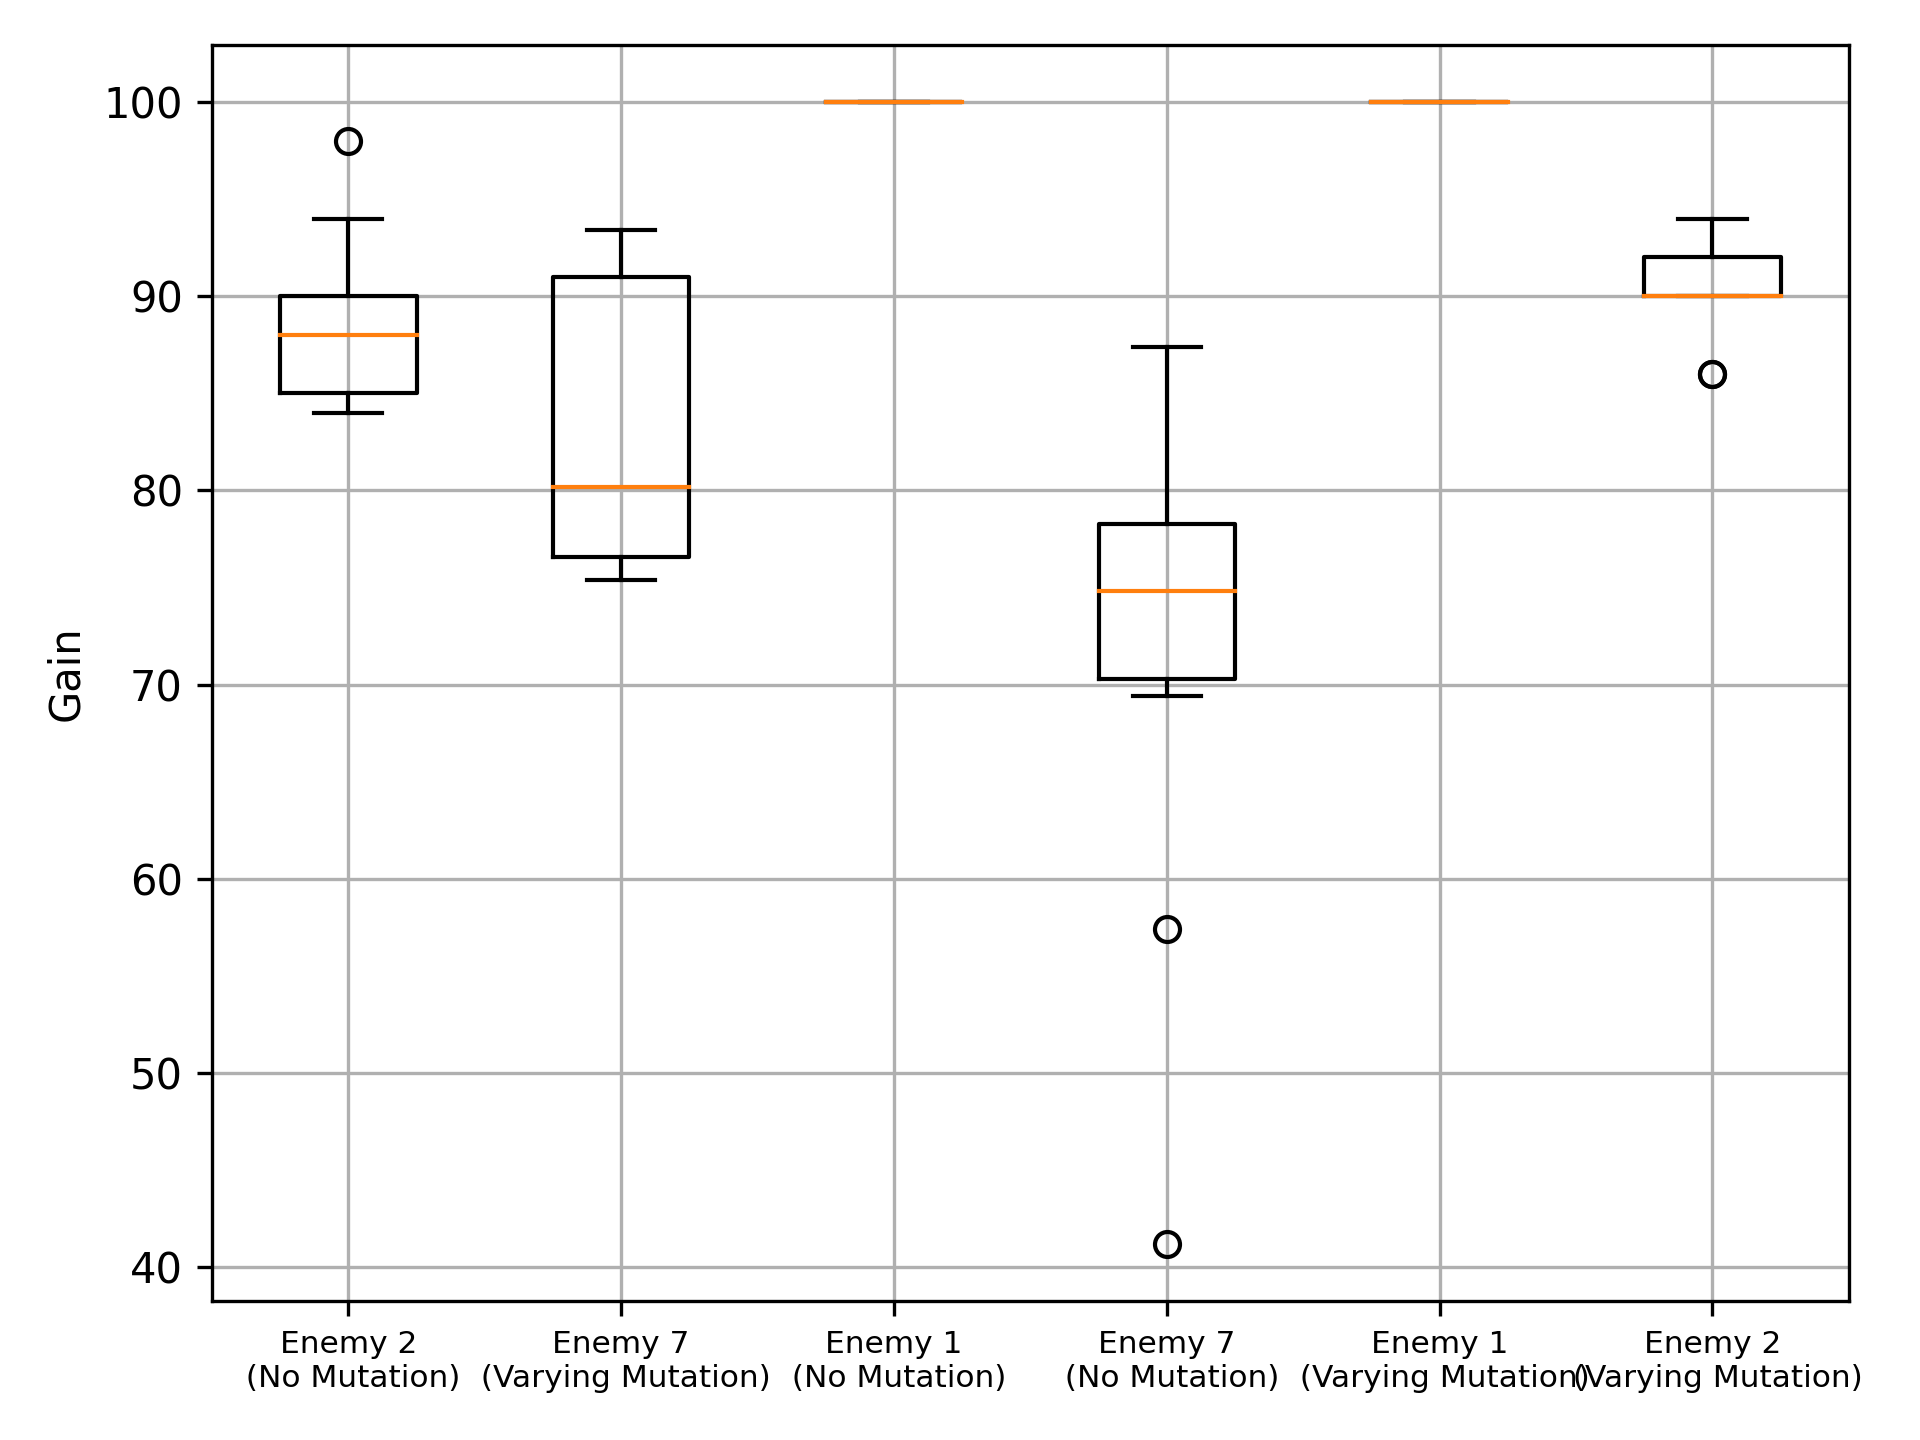
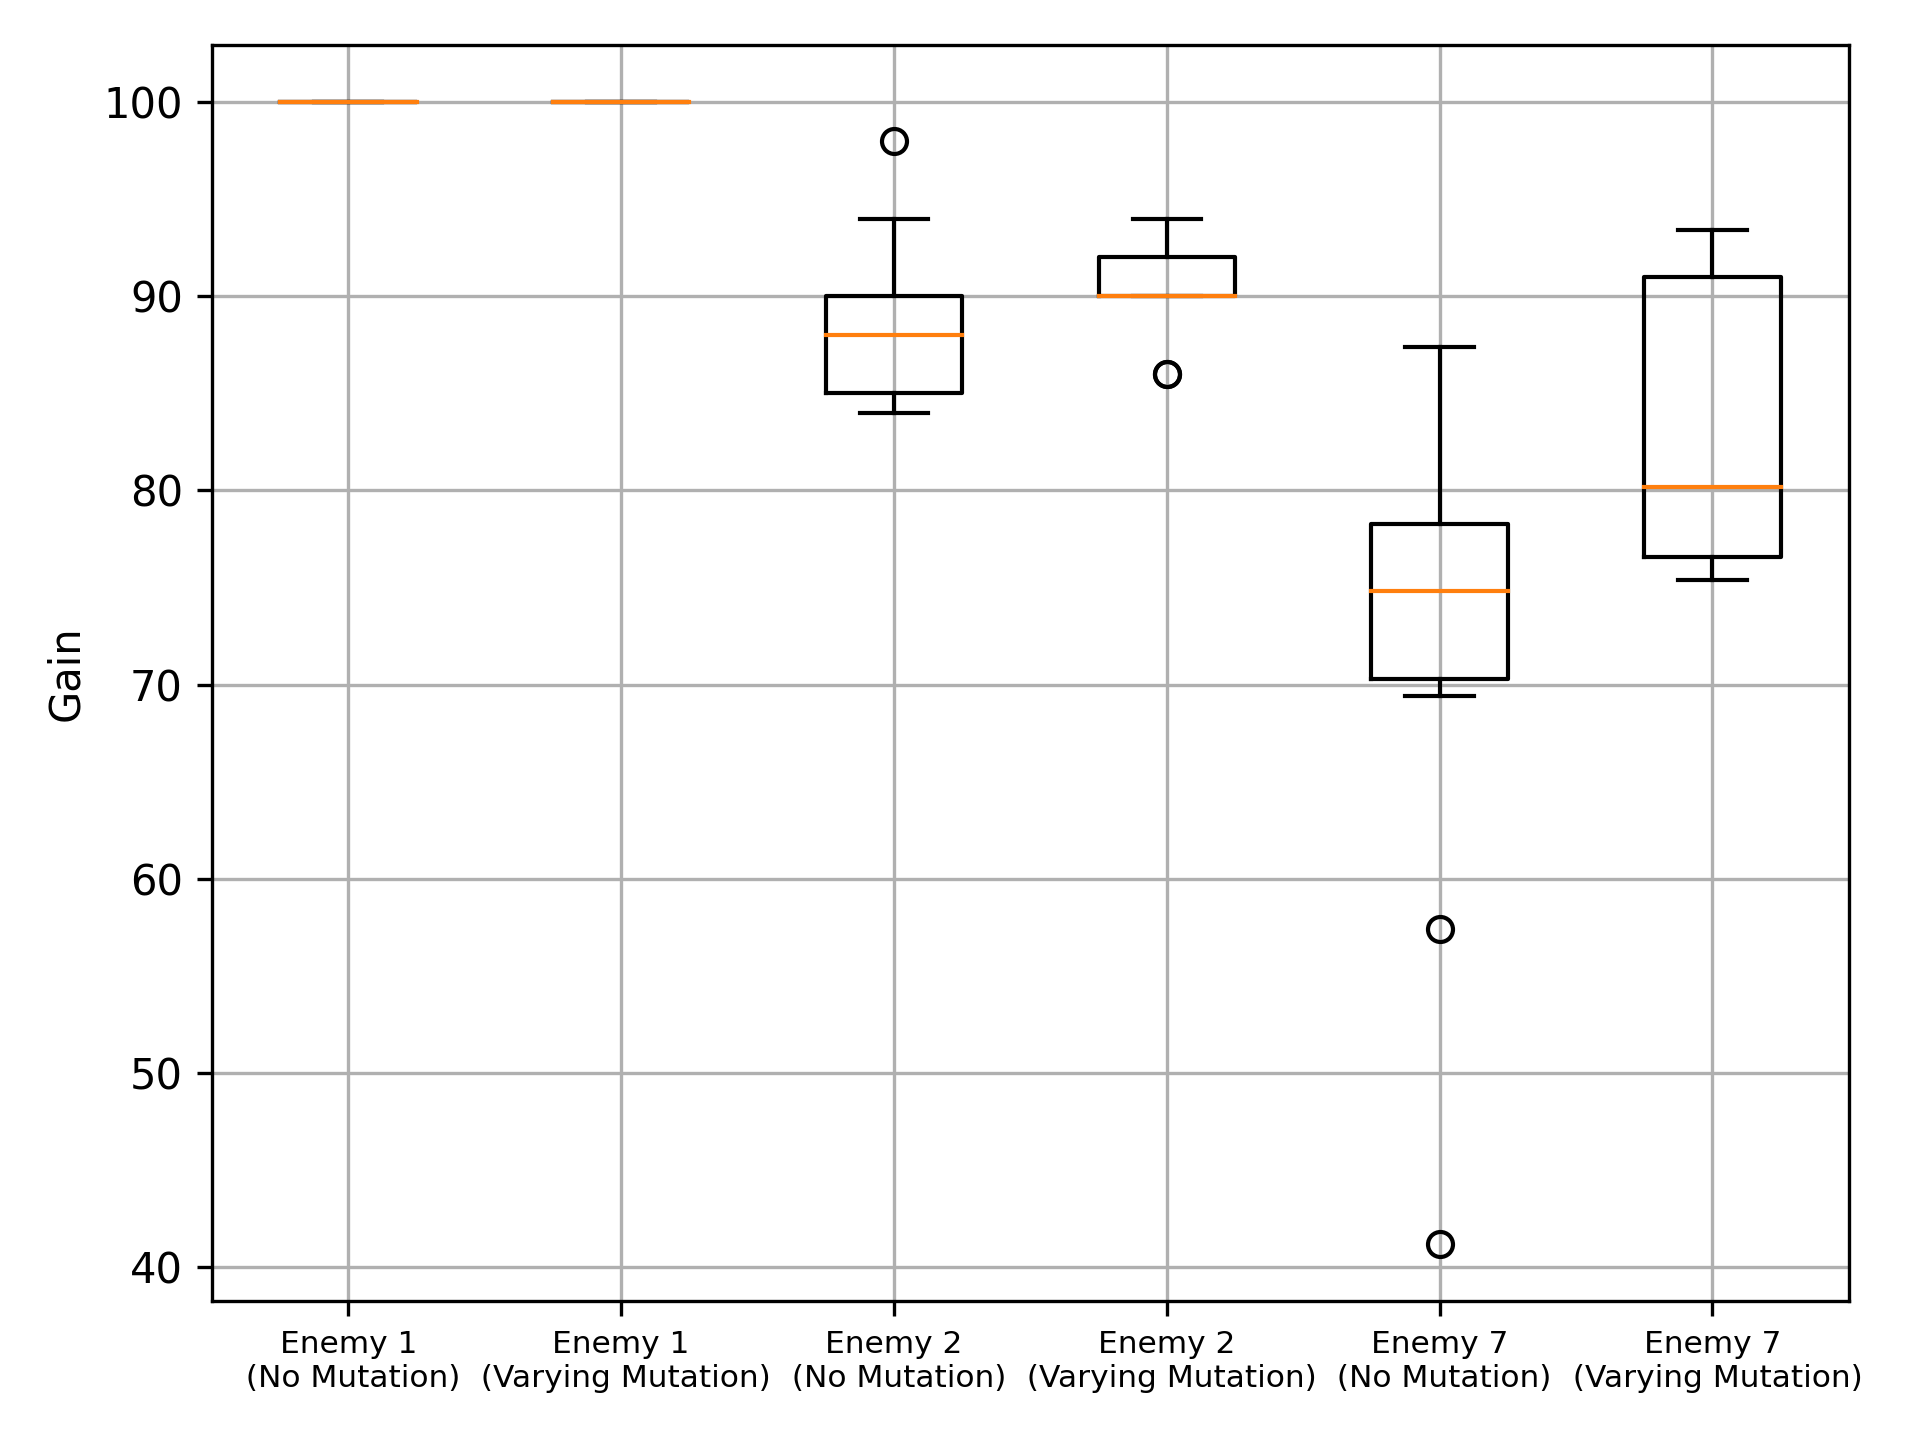
Boxplot redrawn

diff --git a/BoxPlots.py b/BoxPlots.py
@@ -37,6 +37,10 @@ for i, file in enumerate(listdir(path)):
 
     results[enemy] = gain
 
+# Not sure why, in my computer they are coming out of order
+# Reordering
+results = dict(sorted(results.items()))
+
 # Plot boxplots
 ax.boxplot(results.values())
 
